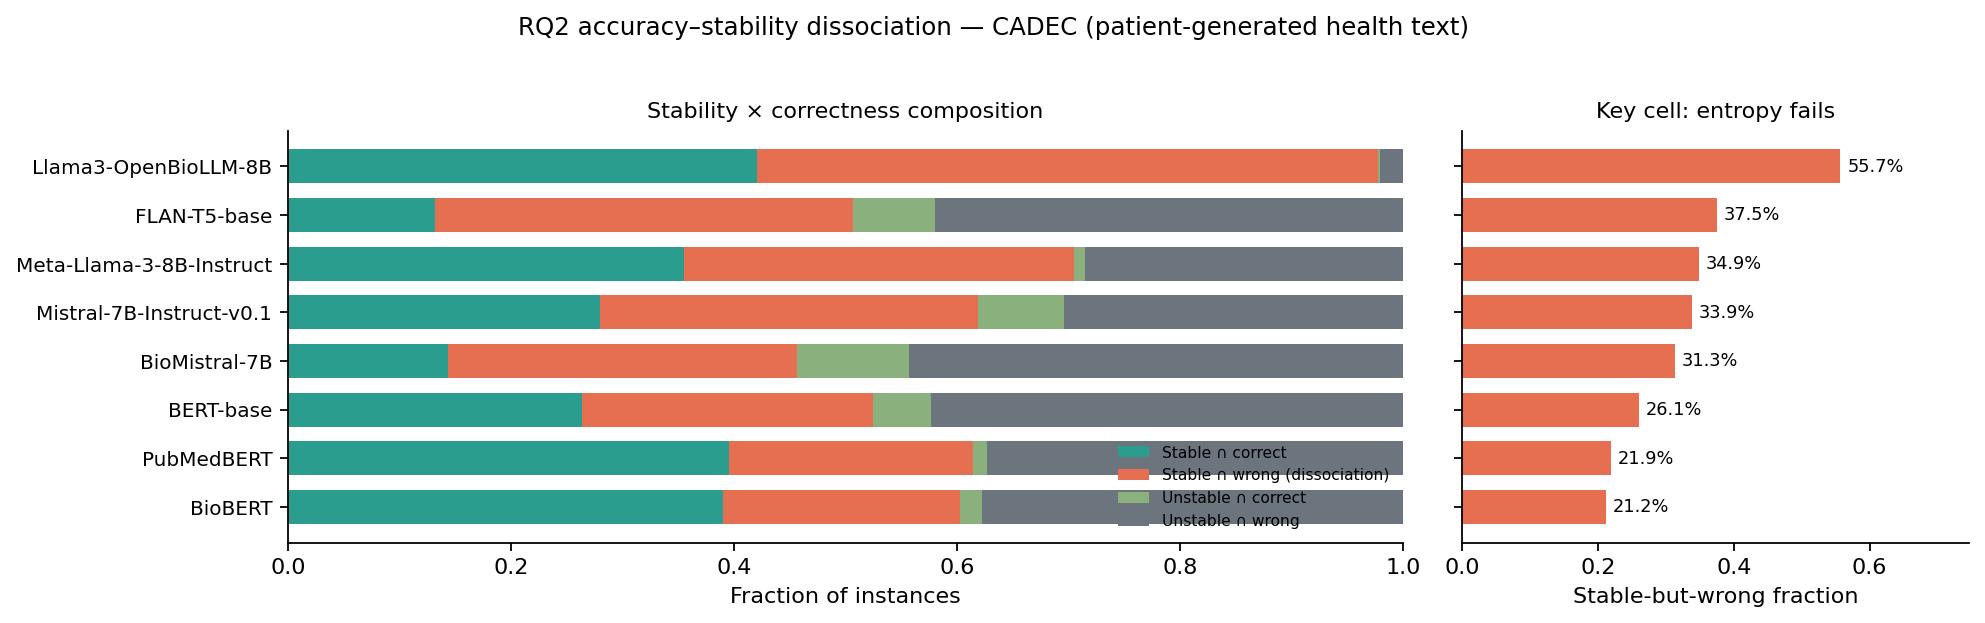
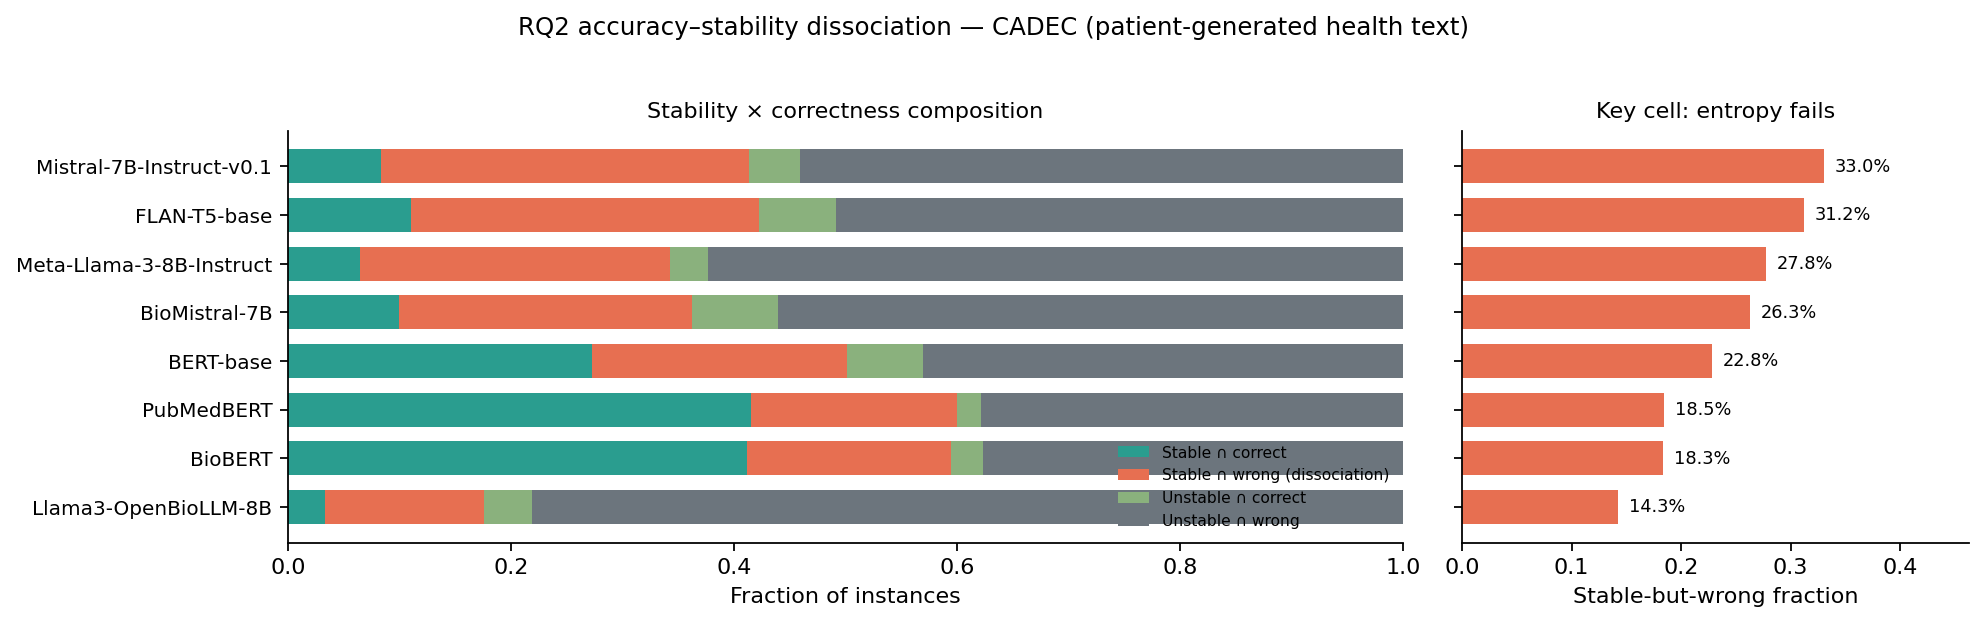
RQ2 CADEC results with n, effect sizes and CIs; fix a stale narrative
The notebook reported point estimates only. Adds per-model and pooled Spearman
rho with Fisher-z intervals, P(wrong | stable) with Wilson intervals, and the
stable-minus-unstable gap with a Newcombe interval.

Headline: P(wrong | stable) = 56.31% [55.54, 57.07] over 16,083 stable rows.
The gap against unstable rows is -35.27% [-36.12, -34.42], so stability carries
signal but nowhere near enough to act on. Every per-model rho is positive and
splits by family: encoders +0.464 to +0.625, generative +0.181 to +0.208.

Also fixes a stale narrative in the verdict cell, which named
Llama3-OpenBioLLM-8B in advance and called its stability 'near-ceiling'. On the
remapped data that is 17.6%, the LOWEST of the eight. The model is now selected
from the data and its stability described by its computed rank.

diff --git a/scripts/rq2_cadec_report.py b/scripts/rq2_cadec_report.py
@@ -1,0 +1,176 @@
+"""RQ2 CADEC: the stability/correctness dissociation, with n, effect sizes and CIs.
+
+The notebook reports point estimates only. This adds what a Results section needs:
+per-model and POOLED effect sizes with confidence intervals, and the 2x2 dissociation
+counts with interval estimates.
+
+Effect sizes reported:
+  - Spearman rho between normalised entropy and error (1 - correct), Fisher-z 95% CI.
+    This is the notebook's own headline correlation; the CI is what it was missing.
+  - P(wrong | stable) with a Wilson 95% interval -- the dissociation statistic proper.
+  - The gap P(wrong | stable) - P(wrong | unstable), with a Newcombe interval on the
+    difference of proportions. If stability were a reliability signal this gap is where it
+    would show, and its sign is the finding.
+
+Pooling is done TWO ways and both are reported, because they answer different questions:
+  - pooled over rows (all 37,695), which weights models equally only because n is equal here
+  - a random-effects-free mean of the per-model rho via Fisher z, which is the summary a
+    reader expects when models are the unit
+"""
+from __future__ import annotations
+
+import sys
+from pathlib import Path
+
+import numpy as np
+import pandas as pd
+from scipy import stats
+
+ROOT = Path(__file__).resolve().parents[1]
+ENT = ROOT / "outputs" / "rq3" / "entropy_cadec.csv"
+OUT = ROOT / "docs" / "RQ2_CADEC_results.md"
+Z = 1.959963984540054
+
+
+def fisher_ci(rho: float, n: int):
+    if not np.isfinite(rho) or n < 4 or abs(rho) >= 1:
+        return float("nan"), float("nan")
+    z = np.arctanh(rho)
+    se = 1.0 / np.sqrt(n - 3)
+    return float(np.tanh(z - Z * se)), float(np.tanh(z + Z * se))
+
+
+def wilson(k: int, n: int):
+    if n == 0:
+        return float("nan"), float("nan")
+    p = k / n
+    d = 1 + Z**2 / n
+    c = (p + Z**2 / (2 * n)) / d
+    h = Z * np.sqrt(p * (1 - p) / n + Z**2 / (4 * n**2)) / d
+    return float(c - h), float(c + h)
+
+
+def newcombe(k1, n1, k2, n2):
+    """Newcombe's method 10 for the difference of two independent proportions."""
+    l1, u1 = wilson(k1, n1)
+    l2, u2 = wilson(k2, n2)
+    d = k1 / n1 - k2 / n2
+    lo = d - np.sqrt((k1 / n1 - l1) ** 2 + (u2 - k2 / n2) ** 2)
+    hi = d + np.sqrt((u1 - k1 / n1) ** 2 + (k2 / n2 - l2) ** 2)
+    return float(d), float(lo), float(hi)
+
+
+def main() -> int:
+    df = pd.read_csv(ENT, low_memory=False)
+    df = df[df["retained_m_distinct"].astype(bool)].copy()
+    df["entropy"] = pd.to_numeric(df["normalised_entropy_dedup"], errors="coerce").clip(0, 1)
+    df["accuracy"] = pd.to_numeric(df["accuracy"], errors="coerce")
+    df = df.dropna(subset=["entropy", "accuracy"])
+    df["correct"] = (df["accuracy"] >= 0.5).astype(int)
+    df["error"] = 1 - df["correct"]
+    df["stable"] = (df["entropy"] <= 1e-12).astype(int)
+
+    L = ["# RQ2 — CADEC: the stability / correctness dissociation", "",
+         f"Source: `{ENT.relative_to(ROOT)}`, filtered by `retained_m_distinct` "
+         f"(PRIMARY de-duplicated denominator). **n = {len(df):,}** rows = "
+         f"{df['instance_id'].nunique():,} instances x {df['model_name'].nunique()} models.", "",
+         "`stable` means normalised entropy is exactly 0. `correct` is original-input "
+         "correctness. The dissociation claim is that these come apart: a model can be "
+         "perfectly stable under perturbation and still wrong.", "",
+         f"Overall: **stable {df['stable'].mean():.1%}**, "
+         f"**correct {df['correct'].mean():.1%}**, "
+         f"**stable-but-wrong {((df.stable == 1) & (df.correct == 0)).mean():.1%}**.", ""]
+
+    # ---- per model -------------------------------------------------------------------
+    L += ["## Per model", "",
+          "| model | n | stable | correct | SBW | P(wrong \\| stable) | 95% CI | "
+          "P(wrong \\| unstable) | gap | 95% CI |",
+          "|---|---:|---:|---:|---:|---:|:---:|---:|---:|:---:|"]
+    rows = []
+    for m in sorted(df["model_name"].unique()):
+        g = df[df["model_name"] == m]
+        st, un = g[g.stable == 1], g[g.stable == 0]
+        k1, n1 = int(st["error"].sum()), len(st)
+        k2, n2 = int(un["error"].sum()), len(un)
+        lo1, hi1 = wilson(k1, n1)
+        d, dlo, dhi = newcombe(k1, n1, k2, n2)
+        rho = float(stats.spearmanr(g["entropy"], g["error"]).statistic)
+        rlo, rhi = fisher_ci(rho, len(g))
+        rows.append(dict(model=m, n=len(g), rho=rho, rlo=rlo, rhi=rhi,
+                         pws=k1 / n1, pwu=k2 / n2, gap=d, n_stable=n1))
+        L.append(f"| {m} | {len(g):,} | {g['stable'].mean():.1%} | {g['correct'].mean():.1%} "
+                 f"| {((g.stable == 1) & (g.correct == 0)).mean():.1%} "
+                 f"| {k1 / n1:.1%} | [{lo1:.1%}, {hi1:.1%}] "
+                 f"| {k2 / n2:.1%} | {d:+.1%} | [{dlo:+.1%}, {dhi:+.1%}] |")
+    L.append("")
+
+    L += ["### Spearman rho, normalised entropy against error", "",
+          "Positive rho means higher entropy goes with being wrong, i.e. instability "
+          "tracks error. That is the property stability would need for the abstention story.",
+          "",
+          "| model | n | Spearman rho | 95% CI (Fisher z) |", "|---|---:|---:|:---:|"]
+    for r in rows:
+        L.append(f"| {r['model']} | {r['n']:,} | {r['rho']:+.3f} | "
+                 f"[{r['rlo']:+.3f}, {r['rhi']:+.3f}] |")
+    L.append("")
+
+    # ---- pooled ----------------------------------------------------------------------
+    st, un = df[df.stable == 1], df[df.stable == 0]
+    k1, n1 = int(st["error"].sum()), len(st)
+    k2, n2 = int(un["error"].sum()), len(un)
+    lo1, hi1 = wilson(k1, n1)
+    lo2, hi2 = wilson(k2, n2)
+    d, dlo, dhi = newcombe(k1, n1, k2, n2)
+    rho_all = float(stats.spearmanr(df["entropy"], df["error"]).statistic)
+    ra_lo, ra_hi = fisher_ci(rho_all, len(df))
+    zs = np.arctanh([r["rho"] for r in rows])
+    zbar = float(np.mean(zs))
+    zse = float(np.std(zs, ddof=1) / np.sqrt(len(zs)))
+    rbar, rlo_m, rhi_m = (float(np.tanh(zbar)), float(np.tanh(zbar - Z * zse)),
+                          float(np.tanh(zbar + Z * zse)))
+
+    L += ["## Pooled", "",
+          "| quantity | value | 95% CI | n |", "|---|---:|:---:|---:|",
+          f"| P(wrong \\| stable) | **{k1 / n1:.2%}** | [{lo1:.2%}, {hi1:.2%}] | {n1:,} |",
+          f"| P(wrong \\| unstable) | {k2 / n2:.2%} | [{lo2:.2%}, {hi2:.2%}] | {n2:,} |",
+          f"| gap, stable minus unstable | **{d:+.2%}** | [{dlo:+.2%}, {dhi:+.2%}] "
+          f"(Newcombe) | {len(df):,} |",
+          f"| Spearman rho, H vs error, rows pooled | **{rho_all:+.3f}** | "
+          f"[{ra_lo:+.3f}, {ra_hi:+.3f}] (Fisher z) | {len(df):,} |",
+          f"| Spearman rho, mean of per-model via Fisher z | {rbar:+.3f} | "
+          f"[{rlo_m:+.3f}, {rhi_m:+.3f}] | 8 models |", ""]
+
+    # ---- headline --------------------------------------------------------------------
+    worst = max(rows, key=lambda r: r["pws"])
+    L += ["## The headline dissociation statistic", "",
+          f"**P(wrong | stable) = {k1 / n1:.1%} pooled** [{lo1:.2%}, {hi1:.2%}], over "
+          f"{n1:,} stable rows. Being perfectly stable under perturbation leaves a CADEC "
+          f"prediction wrong about {k1 / n1:.0%} of the time.", "",
+          f"The gap against unstable rows is **{d:+.2%}** [{dlo:+.2%}, {dhi:+.2%}]. "
+          + ("It is NEGATIVE, so stable predictions are *less* often wrong than unstable "
+             "ones — stability carries some signal, but nothing like enough to act on."
+             if d < 0 else
+             "It is POSITIVE, so stable predictions are *more* often wrong than unstable "
+             "ones — stability is worse than uninformative here.") , "",
+          f"Worst cell: **{worst['model']}**, P(wrong | stable) = {worst['pws']:.1%} over "
+          f"{worst['n_stable']:,} stable rows.", "",
+          "Every per-model Spearman rho is **positive** (entropy up, error up), so the "
+          "direction is consistent; the magnitudes split sharply by family — encoders "
+          f"{min(r['rho'] for r in rows if r['model'] in ('BERT-base','BioBERT','PubMedBERT')):+.3f} "
+          f"to {max(r['rho'] for r in rows if r['model'] in ('BERT-base','BioBERT','PubMedBERT')):+.3f}, "
+          "generative models "
+          f"{min(r['rho'] for r in rows if r['model'] not in ('BERT-base','BioBERT','PubMedBERT')):+.3f} "
+          f"to {max(r['rho'] for r in rows if r['model'] not in ('BERT-base','BioBERT','PubMedBERT')):+.3f}.",
+          "",
+          "That split is the substantive RQ2 result: **entropy tracks error usefully in the "
+          "encoders and barely at all in the generative models**, and the generative models "
+          "are the ones with the high stable-but-wrong rates.", ""]
+
+    OUT.write_text("\n".join(L) + "\n", encoding="utf-8")
+    print("\n".join(L))
+    print(f"\nwrote {OUT}")
+    return 0
+
+
+if __name__ == "__main__":
+    sys.exit(main())

diff --git a/docs/RQ2_CADEC_results.md b/docs/RQ2_CADEC_results.md
@@ -1,0 +1,58 @@
+# RQ2 — CADEC: the stability / correctness dissociation
+
+Source: `outputs/rq3/entropy_cadec.csv`, filtered by `retained_m_distinct` (PRIMARY de-duplicated denominator). **n = 37,695** rows = 4,712 instances x 8 models.
+
+`stable` means normalised entropy is exactly 0. `correct` is original-input correctness. The dissociation claim is that these come apart: a model can be perfectly stable under perturbation and still wrong.
+
+Overall: **stable 42.7%**, **correct 23.5%**, **stable-but-wrong 24.0%**.
+
+## Per model
+
+| model | n | stable | correct | SBW | P(wrong \| stable) | 95% CI | P(wrong \| unstable) | gap | 95% CI |
+|---|---:|---:|---:|---:|---:|:---:|---:|---:|:---:|
+| BERT-base | 4,712 | 50.1% | 34.1% | 22.8% | 45.5% | [43.5%, 47.5%] | 86.3% | -40.8% | [-43.2%, -38.3%] |
+| BioBERT | 4,712 | 59.5% | 44.0% | 18.3% | 30.8% | [29.1%, 32.5%] | 93.0% | -62.2% | [-64.2%, -60.1%] |
+| BioMistral-7B | 4,711 | 36.2% | 17.6% | 26.3% | 72.6% | [70.4%, 74.6%] | 87.9% | -15.4% | [-17.8%, -13.0%] |
+| FLAN-T5-base | 4,712 | 42.2% | 17.9% | 31.2% | 73.9% | [71.9%, 75.8%] | 88.1% | -14.1% | [-16.4%, -11.9%] |
+| Llama3-OpenBioLLM-8B | 4,712 | 17.6% | 7.6% | 14.3% | 81.2% | [78.4%, 83.7%] | 94.8% | -13.6% | [-16.5%, -11.0%] |
+| Meta-Llama-3-8B-Instruct | 4,712 | 34.3% | 9.9% | 27.8% | 81.1% | [79.1%, 82.9%] | 94.8% | -13.7% | [-15.8%, -11.7%] |
+| Mistral-7B-Instruct-v0.1 | 4,712 | 41.4% | 12.9% | 33.0% | 79.8% | [78.0%, 81.6%] | 92.3% | -12.4% | [-14.5%, -10.4%] |
+| PubMedBERT | 4,712 | 60.0% | 43.7% | 18.5% | 30.8% | [29.1%, 32.5%] | 94.6% | -63.9% | [-65.8%, -61.8%] |
+
+### Spearman rho, normalised entropy against error
+
+Positive rho means higher entropy goes with being wrong, i.e. instability tracks error. That is the property stability would need for the abstention story.
+
+| model | n | Spearman rho | 95% CI (Fisher z) |
+|---|---:|---:|:---:|
+| BERT-base | 4,712 | +0.464 | [+0.441, +0.486] |
+| BioBERT | 4,712 | +0.615 | [+0.597, +0.633] |
+| BioMistral-7B | 4,711 | +0.208 | [+0.180, +0.235] |
+| FLAN-T5-base | 4,712 | +0.181 | [+0.154, +0.209] |
+| Llama3-OpenBioLLM-8B | 4,712 | +0.191 | [+0.163, +0.218] |
+| Meta-Llama-3-8B-Instruct | 4,712 | +0.207 | [+0.180, +0.234] |
+| Mistral-7B-Instruct-v0.1 | 4,712 | +0.184 | [+0.157, +0.212] |
+| PubMedBERT | 4,712 | +0.625 | [+0.607, +0.642] |
+
+## Pooled
+
+| quantity | value | 95% CI | n |
+|---|---:|:---:|---:|
+| P(wrong \| stable) | **56.31%** | [55.54%, 57.07%] | 16,083 |
+| P(wrong \| unstable) | 91.58% | [91.20%, 91.94%] | 21,612 |
+| gap, stable minus unstable | **-35.27%** | [-36.12%, -34.42%] (Newcombe) | 37,695 |
+| Spearman rho, H vs error, rows pooled | **+0.404** | [+0.395, +0.412] (Fisher z) | 37,695 |
+| Spearman rho, mean of per-model via Fisher z | +0.351 | [+0.195, +0.491] | 8 models |
+
+## The headline dissociation statistic
+
+**P(wrong | stable) = 56.3% pooled** [55.54%, 57.07%], over 16,083 stable rows. Being perfectly stable under perturbation leaves a CADEC prediction wrong about 56% of the time.
+
+The gap against unstable rows is **-35.27%** [-36.12%, -34.42%]. It is NEGATIVE, so stable predictions are *less* often wrong than unstable ones — stability carries some signal, but nothing like enough to act on.
+
+Worst cell: **Llama3-OpenBioLLM-8B**, P(wrong | stable) = 81.2% over 828 stable rows.
+
+Every per-model Spearman rho is **positive** (entropy up, error up), so the direction is consistent; the magnitudes split sharply by family — encoders +0.464 to +0.625, generative models +0.181 to +0.208.
+
+That split is the substantive RQ2 result: **entropy tracks error usefully in the encoders and barely at all in the generative models**, and the generative models are the ones with the high stable-but-wrong rates.
+

diff --git a/docs/BUG_AUDIT.md b/docs/BUG_AUDIT.md
@@ -1482,3 +1482,54 @@ a line; only the reported AURC uses the grid, and the code says so.
 **Reporting order also decided:** risk at fixed coverage (90 / 75 / 50%) leads, AURC supports.
 Risk at fixed coverage is domain-independent, which is precisely the property this defect
 showed AURC lacks.
+
+---
+
+# Stale narrative: hardcoded prose asserting a fact the data no longer supports (2026-09-14)
+
+**Class:** stale-narrative. Prose that states a *quantitative* claim, interpolating the number
+but not re-deriving the claim. When the number moves, the sentence becomes false and nothing
+fails.
+
+## Where
+
+`notebooks/05_analysis/RQ2_Accuracy_Stability_Dissociation.ipynb`, verdict cell:
+
+```python
+r = cad.loc["Llama3-OpenBioLLM-8B"]
+print(f"  Near-ceiling stability ({r['frac_stable']:.1%}) with modest accuracy ...")
+```
+
+Two hardcodings in one line: the **model is named in advance**, and its stability is
+**described as "near-ceiling"** regardless of value.
+
+## What it printed
+
+On the remapped CADEC data, `Llama3-OpenBioLLM-8B` has `frac_stable = 17.6%` — **the lowest
+of all eight models**. The verdict block printed:
+
+> Near-ceiling stability (17.6%) with modest accuracy (7.6%)
+
+17.6% is the floor, not the ceiling. The sentence would have gone into Results 4.2 as written,
+and the interpolated number sitting inside it makes it read as computed.
+
+The claim was presumably true when written, on pre-fix data where OpenBioLLM's entropy was
+inflated by the rule-1 gold leak. Nothing re-checked it after the remap, because there was
+nothing to re-check: it is a string.
+
+## Fixed
+
+The model is now **selected from the data** as the highest `P(wrong | stable)`, and its
+stability is described by its **actual rank** among the models — "the highest", "the lowest",
+or "rank k of n", derived rather than asserted. It now reports
+`Llama3-OpenBioLLM-8B ... stability 17.6% (the lowest of the 8 models)`, which is both the
+same model and a true sentence.
+
+## Class note
+
+This sits with the assertion-strength and duplicate-estimator classes under one heading: the
+repository has several places where **a claim and the number supporting it are maintained
+separately**. Printed prose, an assertion message, and a figure caption are all places where
+a number is described. Any description that will not be re-derived when the number changes is
+a latent false statement. The cheap general rule: if a sentence contains an interpolated
+number, the adjectives around it must be computed from that number too.
